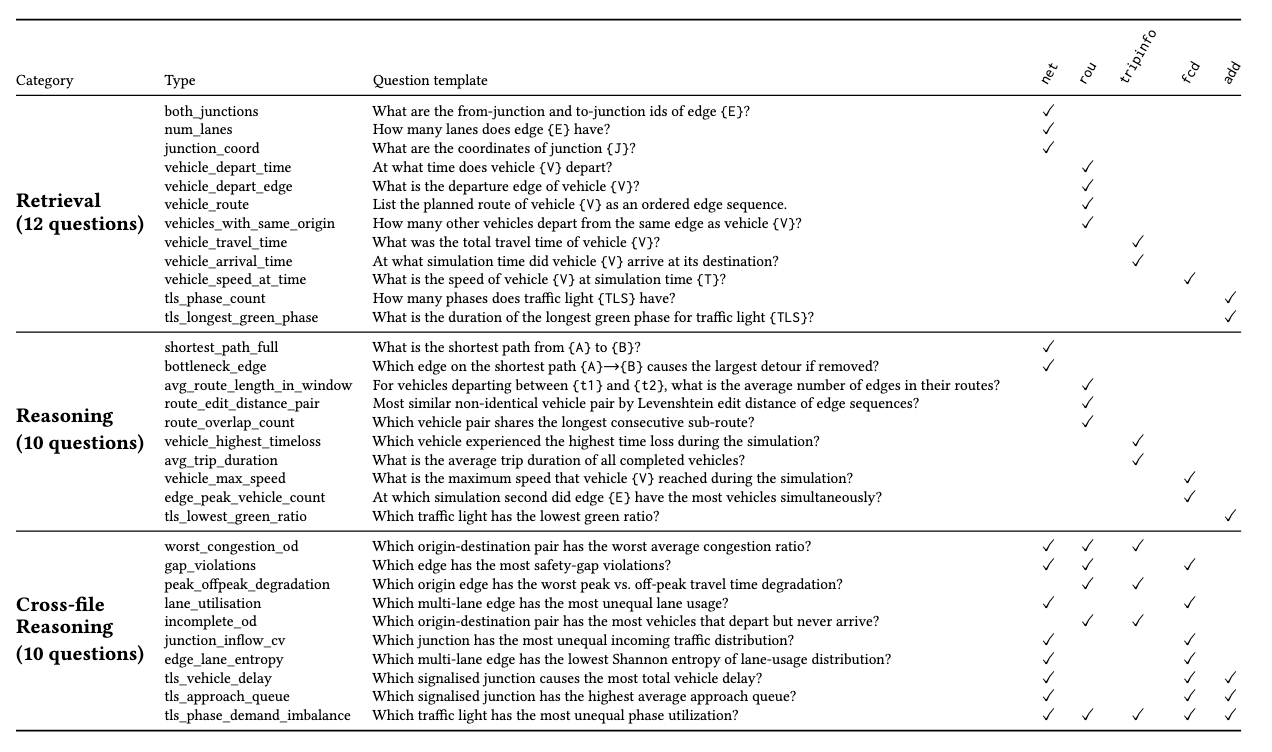
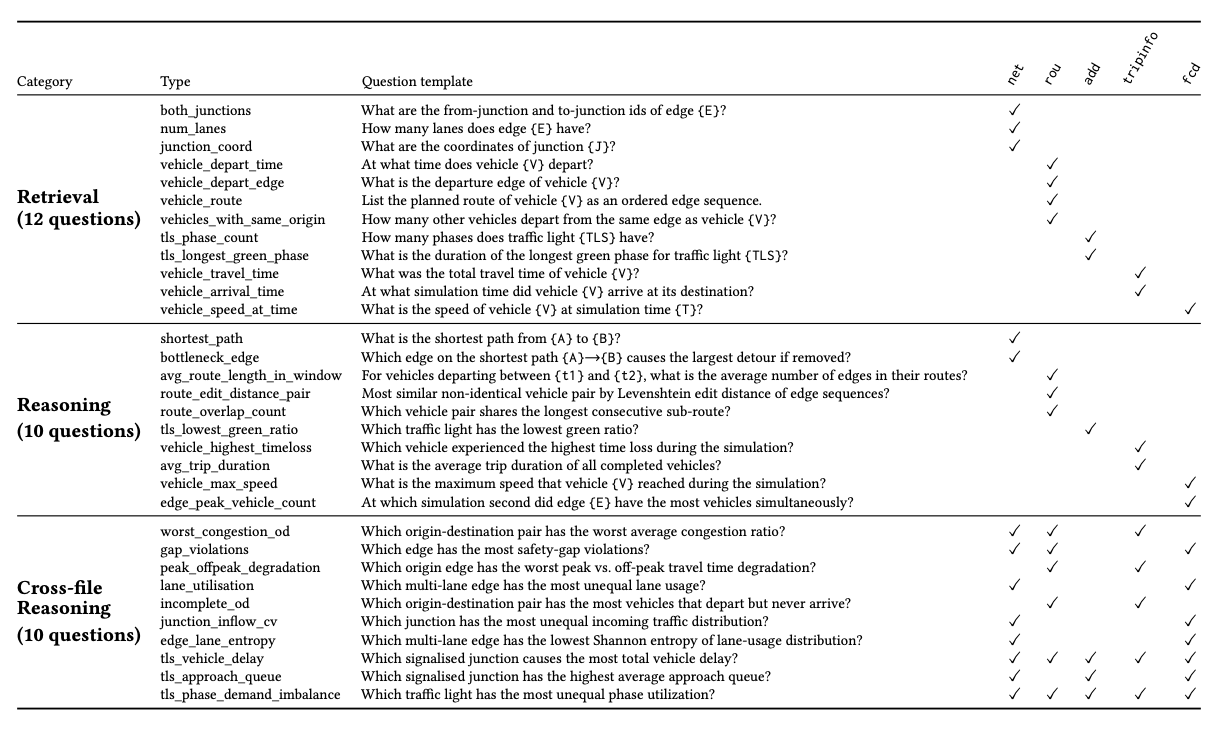
jc: Regenerate all sim scenarios in one run, refresh result figures
- run_simulation.py iterates every route scenario in rou/ (base and
  _s0-_s4 per network) with the matching SUMO seed (42+N), writing
  all 18 tripinfo + 18 fcd outputs in one run
- README: SUMO 1.25.0, all-scenario regeneration note
- update result/question-type figures; .gitignore: add .venv/

diff --git a/run_simulation.py b/run_simulation.py
@@ -3,25 +3,28 @@
 Run SUMO simulations to (re)generate the simulation-output files
 (tripinfo, fcd) from the existing network and route files.
 
-For each network it reads:
-  SUMO_dataset/configuration_files/net/{network}.net.xml
-  SUMO_dataset/configuration_files/rou/{network}.rou.xml
-and writes:
-  SUMO_dataset/output_files/tripinfo/{network}_tripinfo.xml
-  SUMO_dataset/output_files/fcd/{network}_fcd.xml
+Every route scenario in configuration_files/rou/ is simulated — the base
+{network}.rou.xml and the seed variants {network}_s0..s4.rou.xml — writing:
+  SUMO_dataset/output_files/tripinfo/{tag}_tripinfo.xml
+  SUMO_dataset/output_files/fcd/{tag}_fcd.xml
+(18 files each in total).
+
+All scenarios use the traffic-signal logic embedded in the network. The base
+scenario runs with SUMO seed 42 and variant _sN with seed 42+N, matching the
+pipeline that produced the original dataset.
 
 Auxiliary SUMO files (sumocfg, edgeData dumps, vehicle_types.add.xml) go to a
-scratch dir at SUMO_dataset/output_files/_work/. The network already embeds its
-traffic-signal logic, so {network}_tls.add.xml is not injected.
+scratch dir at SUMO_dataset/output_files/_work/.
 
-Settings: seed=42, 0-3600s, fcd-output with geo coordinates,
-device.emissions.probability=1.0.
+Settings: 0-3600s, fcd-output with geo coordinates,
+device.emissions.probability=1.0. Exact reproduction of the published
+outputs requires SUMO 1.25.0.
 """
 
 import os
+import re
 import subprocess
 import sys
-import xml.etree.ElementTree as ET
 from pathlib import Path
 from xml.etree.ElementTree import Element, SubElement, ElementTree
 
@@ -30,7 +33,7 @@ from xml.etree.ElementTree import Element, SubElement, ElementTree
 # script stays in lockstep with the rest of the repo. utils.py imports only
 # pathlib at module top (get_client is lazy), so importing it has no side effects.
 sys.path.insert(0, str(Path(__file__).parent / "scripts"))
-from utils import NET_DIR, ROU_DIR, ADD_DIR, TRIPINFO_DIR, FCD_DIR  # noqa: E402
+from utils import NET_DIR, ROU_DIR, TRIPINFO_DIR, FCD_DIR  # noqa: E402
 
 NETWORK_DIR = NET_DIR                          # configuration_files/net  (inputs)
 ROUTE_DIR = ROU_DIR                            # configuration_files/rou  (base .rou.xml output)
@@ -41,9 +44,6 @@ WORK_DIR = TRIPINFO_DIR.parent / "_work"       # output_files/_work  (gitignored
 SUMO_HOME = os.environ.get("SUMO_HOME")
 if not SUMO_HOME:
     raise RuntimeError("Set $SUMO_HOME to your SUMO installation directory.")
-
-def _tool(name: str) -> str:
-    return os.path.join(SUMO_HOME, "share", "sumo", "tools", name)
 
 def _binary(name: str) -> str:
     return os.path.join(SUMO_HOME, "bin", name)
@@ -58,7 +58,8 @@ EDGEDATA_FREQ = 600     # 10-minute aggregation window
 
 
 def run_simulation(net_file: Path, route_file: Path,
-                   tripinfo_dir: Path, fcd_dir: Path, work_dir: Path, tag: str):
+                   tripinfo_dir: Path, fcd_dir: Path, work_dir: Path, tag: str,
+                   seed: int = SEED):
     """
     Run SUMO simulation.
 
@@ -67,10 +68,8 @@ def run_simulation(net_file: Path, route_file: Path,
     dumps, additional.add.xml, vehicle_types.add.xml, sumocfg) go to a scratch
     work_dir so they do not pollute the published dataset directories.
 
-    Note: the network file already embeds its <tlLogic> traffic-signal
-    definitions, so the published {network}_tls.add.xml is NOT injected here
-    (doing so would re-declare existing logics). It is an independent artifact
-    used only for the QA questions.
+    Traffic signals: all scenarios use the <tlLogic> definitions embedded in
+    the network.
     """
     tripinfo_dir.mkdir(parents=True, exist_ok=True)
     fcd_dir.mkdir(parents=True, exist_ok=True)
@@ -84,9 +83,8 @@ def run_simulation(net_file: Path, route_file: Path,
     netstate_file = str((work_dir / f"{tag}_netstate.xml").absolute())
     netstate_emission_file = str((work_dir / f"{tag}_netstate_emission.xml").absolute())
 
-    # ── vehicle_types.add.xml: prefer the local file (NetTrafficQA-specific
-    # 2-vType setup: electric / gasoline). Do NOT overwrite from external
-    # source — we maintain our own version.
+    # ── vehicle_types.add.xml: the 2-vType setup (electric / gasoline) used by
+    # the routes. Written once into the scratch dir if not already present.
     vtype_dst = work_dir / "vehicle_types.add.xml"
     if not vtype_dst.exists():
         # Fallback: create inline 2-vType definition.
@@ -156,7 +154,7 @@ def run_simulation(net_file: Path, route_file: Path,
     cmd = [
         sumo_binary,
         "-c", str(cfg_file),
-        "--seed", str(SEED),
+        "--seed", str(seed),
         "--device.emissions.probability", "1.0",
         "--no-warnings",
     ]
@@ -182,53 +180,48 @@ def main():
     import argparse
     parser = argparse.ArgumentParser(description="Generate trips and run SUMO simulations.")
     parser.add_argument("--network", default=None, help="Network name (e.g. times_square). If not specified, runs all networks.")
-    parser.add_argument("--seed", type=int, default=None,
-                        help="Random seed. Generates suffixed files (_s0, _s1, ...). "
-                             "Default: 42 with no suffix (backward compatible).")
     args = parser.parse_args()
 
-    global SEED
-    if args.seed is not None:
-        SEED = args.seed
-        suffix = f"_s{args.seed - 42}"
-    else:
-        suffix = ""
-
+    scenarios = sorted(ROUTE_DIR.glob("*.rou.xml"))
     if args.network:
-        net_file = NETWORK_DIR / f"{args.network}.net.xml"
-        if not net_file.exists():
-            print(f"ERROR: Network file not found: {net_file}")
-            return 1
-        net_files = [net_file]
-    else:
-        net_files = sorted(NETWORK_DIR.glob("*.net.xml"))
-        if not net_files:
-            print("ERROR: No .net.xml files found in", NETWORK_DIR)
-            return 1
+        scenarios = [r for r in scenarios
+                     if r.stem.removesuffix(".rou") == args.network
+                     or r.stem.startswith(args.network + "_s")]
+    if not scenarios:
+        print("ERROR: No route scenarios found in", ROUTE_DIR,
+              f"for network {args.network!r}" if args.network else "")
+        return 1
 
-    print(f"Found {len(net_files)} network(s): {[f.name for f in net_files]}")
-    print(f"Settings: seed={SEED}, begin={BEGIN}, end={END}, duration={DURATION}")
+    print(f"Found {len(scenarios)} route scenario(s): "
+          f"{[r.stem.removesuffix('.rou') for r in scenarios]}")
+    print(f"Settings: begin={BEGIN}, end={END}, duration={DURATION}")
 
     TRIPINFO_DIR.mkdir(parents=True, exist_ok=True)
     FCD_DIR.mkdir(parents=True, exist_ok=True)
     WORK_DIR.mkdir(parents=True, exist_ok=True)
 
-    for net_file in net_files:
-        base_tag = net_file.stem.replace(".net", "")  # grid_8x8, random
-        tag = base_tag + suffix
-        print(f"\n{'='*60}")
-        print(f"Network: {net_file.name} (tag={tag})")
-        print(f"{'='*60}")
+    for route_file in scenarios:
+        tag = route_file.stem.removesuffix(".rou")  # e.g. grid_8x8, grid_8x8_s0
+        m = re.match(r"^(.+)_s(\d+)$", tag)
+        if m:                                       # seed variant scenario
+            net_name = m.group(1)
+            seed = SEED + int(m.group(2))
+        else:                                       # base scenario
+            net_name, seed = tag, SEED
 
-        route_file = ROUTE_DIR / f"{tag}.rou.xml"
-        if not route_file.exists():
-            print(f"ERROR: Route file not found: {route_file}")
+        net_file = NETWORK_DIR / f"{net_name}.net.xml"
+        if not net_file.exists():
+            print(f"ERROR: Network file not found: {net_file}")
             return 1
+
+        print(f"\n{'='*60}")
+        print(f"Scenario: {tag} (network={net_name}, seed={seed})")
+        print(f"{'='*60}")
 
         # Run SUMO on the existing network + route files to produce tripinfo/fcd.
         # The route file is an INPUT and is not regenerated.
-        print("\nRunning simulation ...")
-        run_simulation(net_file, route_file, TRIPINFO_DIR, FCD_DIR, WORK_DIR / tag, tag)
+        run_simulation(net_file, route_file, TRIPINFO_DIR, FCD_DIR,
+                       WORK_DIR / tag, tag, seed=seed)
 
     print(f"\n{'='*60}")
     print("All done!")

diff --git a/README.md b/README.md
@@ -50,7 +50,7 @@ All setups run on a Claude model (default `claude-sonnet-4-6`).
 Set your Anthropic API key in `claude_api.txt` at the repo root, or via the `ANTHROPIC_API_KEY` environment variable.
 
 
-[SUMO](https://eclipse.dev/sumo/) (1.24.0) is required to
+[SUMO](https://eclipse.dev/sumo/) (1.25.0) is required to
 regenerate the simulation outputs; install it and set `SUMO_HOME` to your SUMO installation directory.
 
 
@@ -86,13 +86,13 @@ Each `QA_dataset/questions/{network}_{type}.csv` holds 5 samples
 
 ```bash
 export SUMO_HOME=/path/to/sumo
-python run_simulation.py                  # all networks
-python run_simulation.py --network grid_8x8
+python run_simulation.py
 ```
 
-This runs SUMO on the existing network and route files and writes
-`{network}_tripinfo.xml` to `SUMO_dataset/output_files/tripinfo/`
-and `{network}_fcd.xml` to `SUMO_dataset/output_files/fcd/`.
+This runs SUMO on the existing network and route files — every route scenario
+(base and `_s0`–`_s4`) per network — and writes the corresponding
+`*_tripinfo.xml` to `SUMO_dataset/output_files/tripinfo/` and `*_fcd.xml` to
+`SUMO_dataset/output_files/fcd/` (18 files each).
 
 
 ## Running experiments
